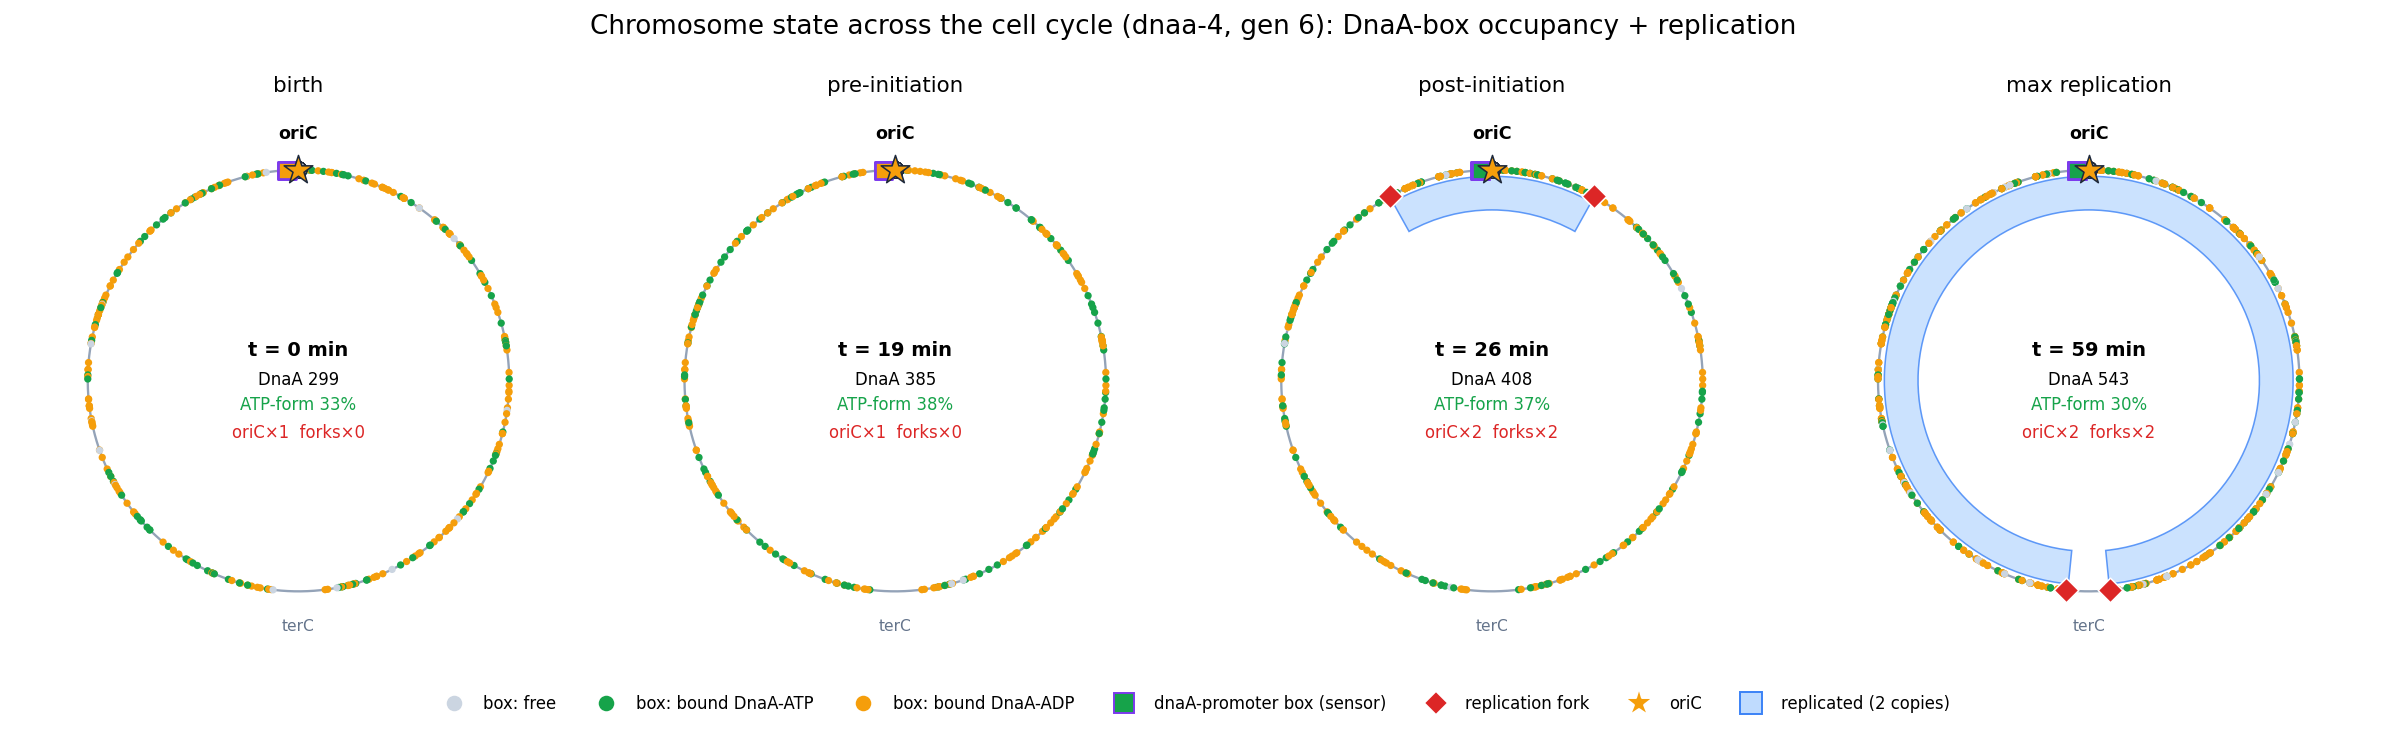
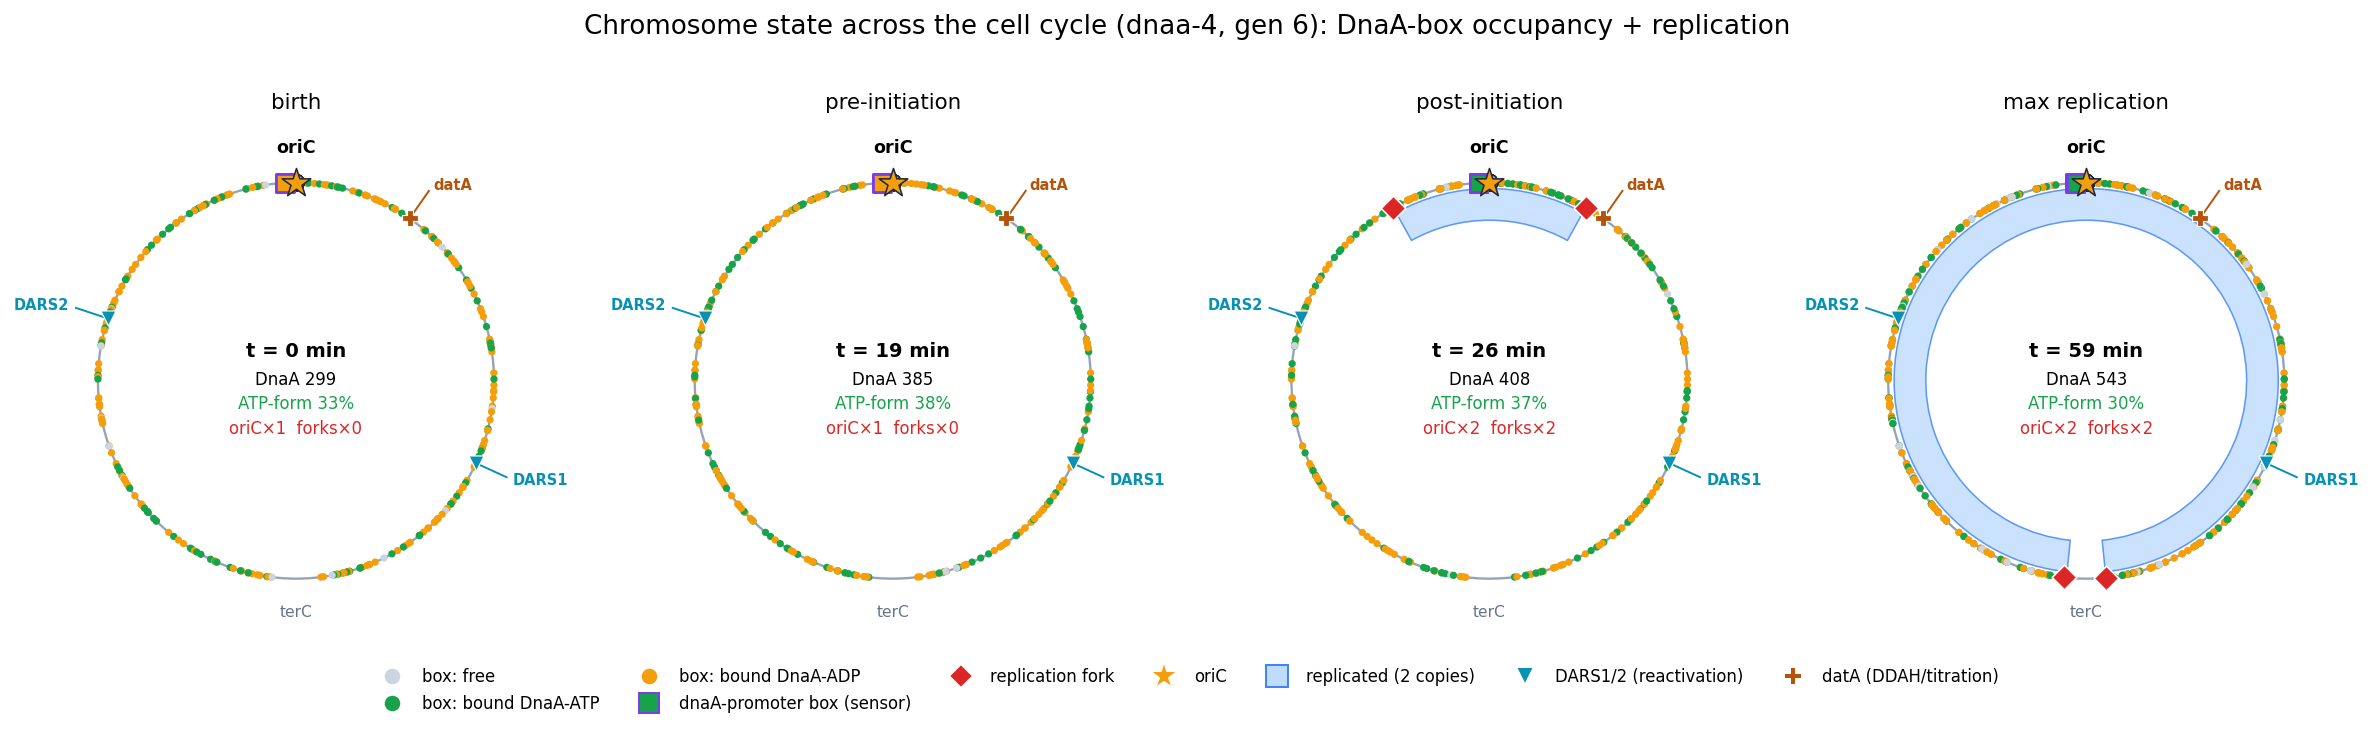
dnaa viz: oriC-zoom figure + DnaA-cycle loci (DARS1/DARS2/datA) on the chromosome ring
- scripts/render_oric_zoom.py: origin-of-replication zoom — stacked occupancy of
  the 11 oriC boxes (3 high-aff + 8 low-aff) by bound form across the cycle with
  initiation marked, plus a pre-initiation origin-box array. Honest readout: oriC
  is only ~5/11 DnaA-ATP-loaded at initiation and fills further after — box binding
  doesn't yet gate initiation (-> dnaa-04-mechanistic-initiation).
- render_chromosome_state.py: mark DARS1 (+1.53Mb), DARS2 (-0.96Mb), datA (+0.47Mb)
  oriC-relative loci on the ring (computed from absolute genome coords; oriC@3.926Mb
  verified via the dnaA-promoter box position). Sets up the DARS/DDAH increment
  where ATP-form recovery near these loci will be visible.

diff --git a/scripts/render_oric_zoom.py b/scripts/render_oric_zoom.py
@@ -1,0 +1,101 @@
+"""oriC-zoom figure: the origin of replication charging up with DnaA-ATP.
+
+Left  — stacked occupancy of the oriC boxes (3 high-affinity + 8 low-affinity)
+        by bound form over one cell cycle: the origin fills with DnaA-ATP toward
+        initiation, then doubles (oriC x1 -> x2) as it fires.
+Right — a snapshot of the origin-box array at the pre-initiation moment, each
+        box colored by what it is bound to (free / DnaA-ATP / DnaA-ADP).
+
+Usage: render_oric_zoom.py <run_dir> <generation> <out.png> [title]
+"""
+import sys
+import glob
+import numpy as np
+import polars as pl
+import matplotlib
+matplotlib.use("Agg")
+import matplotlib.pyplot as plt
+
+L = "listeners__replication_data__"
+P_ORIC_HI, P_ORIC_LO = 1, 2
+F_FREE, F_ATP, F_ADP = 0, 1, 2
+C_FREE, C_ATP, C_ADP = "#cbd5e1", "#16a34a", "#f59e0b"
+
+run_dir = sys.argv[1]
+gen = int(sys.argv[2])
+out = sys.argv[3]
+title = sys.argv[4] if len(sys.argv) > 4 else f"oriC charging with DnaA-ATP toward initiation (gen {gen})"
+
+fs = sorted(glob.glob(f"{run_dir}/**/history/**/*.pq", recursive=True))
+df = pl.scan_parquet(fs, hive_partitioning=True).select(
+    ["generation", "global_time", L + "number_of_oric",
+     L + "dnaa_box_coordinates", L + "dnaa_box_pool_label", L + "dnaa_box_bound_form"]
+).collect().sort(["generation", "global_time"]).filter(pl.col("generation") == gen)
+
+t = df["global_time"].to_numpy() / 60.0
+n_oric = df[L + "number_of_oric"].to_numpy()
+
+# per-tick counts of oriC-region boxes (high+low) by bound form
+free_c, atp_c, adp_c = [], [], []
+for i in range(df.height):
+    pl_ = np.asarray(df[L + "dnaa_box_pool_label"][i], int)
+    bf = np.asarray(df[L + "dnaa_box_bound_form"][i], int)
+    m = (pl_ == P_ORIC_HI) | (pl_ == P_ORIC_LO)
+    free_c.append(int(np.sum(bf[m] == F_FREE)))
+    atp_c.append(int(np.sum(bf[m] == F_ATP)))
+    adp_c.append(int(np.sum(bf[m] == F_ADP)))
+free_c, atp_c, adp_c = map(np.array, (free_c, atp_c, adp_c))
+
+# initiation ticks: where number_of_oric increases
+init_idx = np.where(np.diff(n_oric) > 0)[0] + 1
+# pre-initiation snapshot: tick just before the first initiation
+i_pre = int(init_idx[0] - 1) if len(init_idx) else int(np.argmax(atp_c))
+
+fig = plt.figure(figsize=(13.5, 5.2))
+gs = fig.add_gridspec(1, 3, width_ratios=[2.1, 0.05, 1.0], wspace=0.25)
+
+# ---- left: stacked occupancy timeline ----
+axL = fig.add_subplot(gs[0, 0])
+axL.stackplot(t, free_c, atp_c, adp_c, colors=[C_FREE, C_ATP, C_ADP],
+              labels=["free", "bound DnaA-ATP", "bound DnaA-ADP"], alpha=0.95)
+for j, ii in enumerate(init_idx):
+    axL.axvline(t[ii], color="#dc2626", lw=1.4, ls="--",
+                label="initiation (oriC doubles)" if j == 0 else None)
+axL.axvline(t[i_pre], color="#1e293b", lw=1.0, ls=":", label="pre-initiation snapshot")
+axL.set_xlabel("time in generation (min)")
+axL.set_ylabel("oriC boxes (3 high-aff + 8 low-aff)")
+axL.set_title("oriC charging: origin boxes fill with DnaA-ATP, then fire")
+axL.set_xlim(t.min(), t.max())
+axL.legend(loc="upper left", fontsize=8.5, framealpha=0.92, ncol=2)
+axL.grid(alpha=0.2)
+
+# ---- right: origin-box array at pre-initiation ----
+axR = fig.add_subplot(gs[0, 2])
+pl_ = np.asarray(df[L + "dnaa_box_pool_label"][i_pre], int)
+bf = np.asarray(df[L + "dnaa_box_bound_form"][i_pre], int)
+co = np.asarray(df[L + "dnaa_box_coordinates"][i_pre], float)
+cmap = {F_FREE: C_FREE, F_ATP: C_ATP, F_ADP: C_ADP}
+hi = np.where(pl_ == P_ORIC_HI)[0]
+lo = np.where(pl_ == P_ORIC_LO)[0]
+hi = hi[np.argsort(co[hi])]
+lo = lo[np.argsort(co[lo])]
+for col, rows, y, lab in [("high", hi, 1.0, "high-affinity (R-boxes)"),
+                          ("low", lo, 0.0, "low-affinity (I/τ-sites)")]:
+    n = len(rows)
+    xs = np.linspace(-0.45 * max(n, 1), 0.45 * max(n, 1), n) if n else []
+    for x, r in zip(xs, rows):
+        axR.scatter([x], [y], s=520 if col == "high" else 320,
+                    c=cmap[int(bf[r])], edgecolors="#1e293b",
+                    linewidths=1.2 if col == "high" else 0.7, zorder=3)
+    axR.text(0, y + 0.36, lab, ha="center", fontsize=9, color="#334155")
+n_atp = int(np.sum(bf[(pl_ == P_ORIC_HI) | (pl_ == P_ORIC_LO)] == F_ATP))
+n_tot = int(np.sum((pl_ == P_ORIC_HI) | (pl_ == P_ORIC_LO)))
+axR.set_title(f"oriC at t={t[i_pre]:.0f} min (pre-initiation)\n{n_atp}/{n_tot} boxes DnaA-ATP-loaded", fontsize=10)
+axR.set_xlim(-3.2, 3.2)
+axR.set_ylim(-0.7, 1.7)
+axR.axis("off")
+
+fig.suptitle(title, fontsize=13, y=1.0)
+fig.tight_layout(rect=(0, 0, 1, 0.97))
+fig.savefig(out, dpi=140, bbox_inches="tight")
+print("wrote", out, "| pre-init tick", i_pre, "| initiations:", list(init_idx))

diff --git a/scripts/render_chromosome_state.py b/scripts/render_chromosome_state.py
@@ -128,6 +128,20 @@ def draw(ax, i):
                linewidths=0.8, zorder=8)
     ax.text(0, R + 0.13, "oriC", ha="center", va="bottom", fontsize=9, fontweight="bold")
     ax.text(0, -R - 0.13, "terC", ha="center", va="top", fontsize=8, color="#64748b")
+    # DnaA-cycle regulatory loci (oriC-relative coords). DARS1/DARS2 reactivate
+    # DnaA-ADP -> DnaA-ATP; datA titrates/hydrolyses (DDAH). Markers now; their
+    # effect on box color (ATP recovery) appears once dnaa-5 DARS/DDAH are wired.
+    LOCI = {"DARS1": (1529044, "#0891b2", "v"), "DARS2": (-956504, "#0891b2", "v"),
+            "datA": (467079, "#b45309", "P")}
+    for nm, (c, col, mk) in LOCI.items():
+        aa = angle(c)
+        x0, y0 = R * np.cos(aa), R * np.sin(aa)
+        x1, y1 = 1.17 * np.cos(aa), 1.17 * np.sin(aa)
+        ax.plot([x0, x1], [y0, y1], color=col, lw=1.0, zorder=4)
+        ax.scatter([x0], [y0], marker=mk, s=60, c=col, edgecolors="white",
+                   linewidths=0.6, zorder=9)
+        ax.text(x1 * 1.03, y1 * 1.03, nm, fontsize=7.5, color=col, fontweight="bold",
+                ha="left" if x1 >= 0 else "right", va="center")
     # center stats
     ax.text(0, 0.12, f"t = {t[i]:.0f} min", ha="center", fontsize=10, fontweight="bold")
     ax.text(0, -0.02, f"DnaA {total[i]:.0f}", ha="center", fontsize=8.5)
@@ -158,6 +172,8 @@ leg = [
     Line2D([0], [0], marker="*", color="w", markerfacecolor="#f59e0b", markersize=15, label="oriC"),
     Line2D([0], [0], marker="s", color="w", markerfacecolor="#bfdbfe", markeredgecolor="#3b82f6",
            markersize=11, label="replicated (2 copies)"),
+    Line2D([0], [0], marker="v", color="w", markerfacecolor="#0891b2", markersize=9, label="DARS1/2 (reactivation)"),
+    Line2D([0], [0], marker="P", color="w", markerfacecolor="#b45309", markersize=9, label="datA (DDAH/titration)"),
 ]
 fig.legend(handles=leg, loc="lower center", ncol=7, fontsize=8.5, frameon=False, bbox_to_anchor=(0.5, -0.02))
 fig.suptitle(title, fontsize=13.5, y=1.02)
